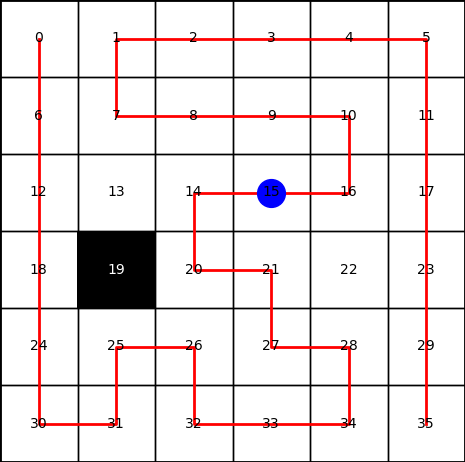
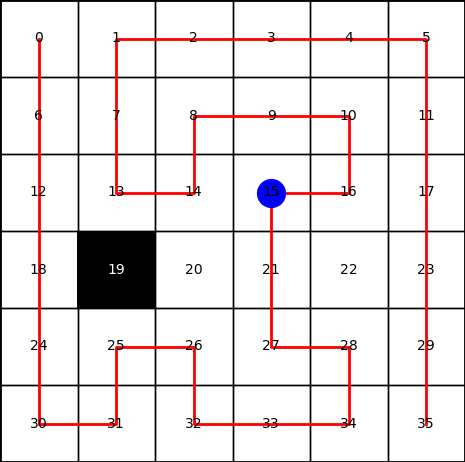
priority by g also

Changed region(s): [[0.2409, 0.2424, 0.5419, 0.5758], [0.4215, 0.4545, 0.6022, 0.6061]]

diff --git a/src/algorithms/bidirectional_search.py b/src/algorithms/bidirectional_search.py
@@ -70,7 +70,7 @@ def bidirectional_search(graph, start, goal, heuristic_name, snake, args):
             lastDirectionF = not lastDirectionF
         else:
             if len(OPEN_F) > 0 and (
-                len(OPEN_B) == 0 or OPEN_F.top()[3] >= OPEN_B.top()[3]
+                len(OPEN_B) == 0 or OPEN_F.top()[0] >= OPEN_B.top()[0]
             ):
                 directionF = True
             else:
@@ -83,7 +83,7 @@ def bidirectional_search(graph, start, goal, heuristic_name, snake, args):
         FNV_D , FNV_D_hat = (FNV_F, FNV_B) if directionF else (FNV_B, FNV_F)
 
         # Get the best state from OPEN_D
-        _, _, current_state, f_value = OPEN_D.top()
+        f_value, g_value, current_state = OPEN_D.top()
         current_path_length = len(current_state.path) - 1
         
         # if expansions % 100000 == 0:
@@ -108,8 +108,8 @@ def bidirectional_search(graph, start, goal, heuristic_name, snake, args):
 
         # Termination Condition: check if U is the largest it will ever be
         if best_path_length >= min(
-            OPEN_F.top()[3] if len(OPEN_F) > 0 else float("inf"),
-            OPEN_B.top()[3] if len(OPEN_B) > 0 else float("inf"),
+            OPEN_F.top()[0] if len(OPEN_F) > 0 else float("inf"),
+            OPEN_B.top()[0] if len(OPEN_B) > 0 else float("inf"),
         ):
             # print(f"Terminating with best path of length {best_path_length}")
             break
@@ -129,7 +129,7 @@ def bidirectional_search(graph, start, goal, heuristic_name, snake, args):
         g_values.append(current_state.g)
 
         # Get the current state from OPEN_D TO CLOSED_D
-        _, _, current_state, f_value = OPEN_D.pop()
+        f_value, g_value, current_state = OPEN_D.pop()
         OPENvOPEN.remove_state(current_state, directionF)
         CLOSED_D.add(current_state)
 

diff --git a/src/models/heapq_state.py b/src/models/heapq_state.py
@@ -1,27 +1,30 @@
 import heapq
-
+import itertools
 
 class HeapqState:
     def __init__(self):
         self.heap = []
-        self.index = 0
+        self._counter = itertools.count()  # tie‑breaker
 
     def push(self, state, f_value):
-        # Push a new state onto the heap with the given f_value
-        heapq.heappush(self.heap, (-f_value, self.index, state, f_value))
-        self.index += 1
+        # We want: max‑f, then max‑g, then FIFO (or insertion order)
+        # => negate f and g to use Python's min‑heap,
+        #    then use a counter so states never have to compare to each other.
+        entry = (
+            -f_value,          # primary key (largest f first)
+            -state.g,          # secondary key (largest g first)
+            next(self._counter),  # tertiary key (insertion order)
+            state
+        )
+        heapq.heappush(self.heap, entry)
 
     def pop(self):
-        # Pop the state with the highest priority
-        return heapq.heappop(self.heap)
+        nf, ng, _, state = heapq.heappop(self.heap)
+        return -nf, -ng, state
 
     def top(self):
-        # Return the state with the highest priority without removing it
-        return self.heap[0]
+        nf, ng, _, state = self.heap[0]
+        return -nf, -ng, state
 
     def __len__(self):
         return len(self.heap)
-    
-    def __iter__(self):
-        # Allow iteration over the heap elements
-        return iter(self.heap)

diff --git a/src/main.py b/src/main.py
@@ -25,8 +25,8 @@ DEFAULT_LOG = True                  # True # False
 DEFAULT_DATE = "SM_Grids"              # "SM_Grids" / "cubes" / "mazes" / "Check_Sparse_Grids"
 DEFAULT_NUMBER_OF_GRAPHS = 10       # 10
 DEFAULT_GRAPH_TYPE = "grid"         # "grid" / "cube" / "manual" / "maze"
-DEFAULT_SIZE_OF_GRAPHS = [8,9]      # dimension of cube
-DEFAULT_PER_OF_BLOCKS = 16           # 4 / 8 / 12 / 16
+DEFAULT_SIZE_OF_GRAPHS = [6,7]      # dimension of cube
+DEFAULT_PER_OF_BLOCKS = 4           # 4 / 8 / 12 / 16
 DEFAULT_HEURISTIC = "bcc_heuristic" # "bcc_heuristic" / "mis_heuristic" / "heuristic0" / "reachable_heuristic" / "bct_is_heuristic" /
 DEFAULT_SNAKE = False                # True # False
 DEFAULT_RUN_UNI = True              # True # False

diff --git a/src/algorithms/unidirectional_search.py b/src/algorithms/unidirectional_search.py
@@ -37,7 +37,7 @@ def unidirectional_search(graph, start, goal, heuristic_name, snake, args):
 
     while len(open_set) > 0:
         # Pop the state with the highest priority (g(N) + h(N))
-        _, _, current_state, f_value = open_set.pop()
+        f_value, g_value, current_state = open_set.pop()
         current_path_length = len(current_state.path) - 1
 
         # Increment the expansion counter
